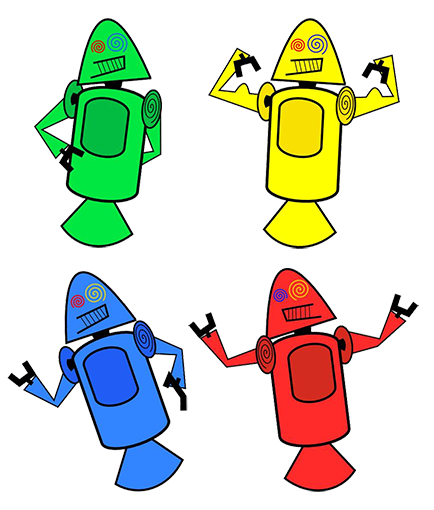
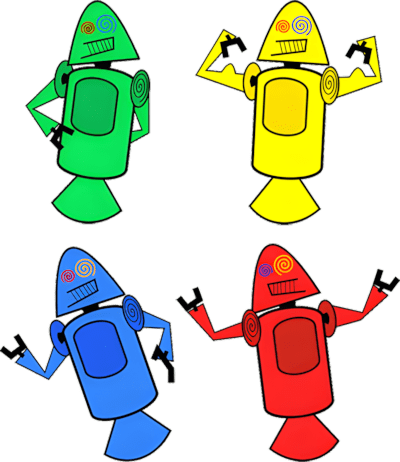
redução do peso das imagens

Changed region(s): [[0.42, 0.0, 1.0, 1.0], [0.0, 0.5152, 0.45, 1.0], [0.06, 0.0, 0.39, 0.4848]]

diff --git a/index.html b/index.html
@@ -43,8 +43,8 @@
             <p>A ideia de ter um mascote foi amadurecendo e a missão foi passada para uma profissional da área. A ilustradora Russa <strong><a class="external-link" href="https://www.irinablok.com/android" target="_blank" rel="noopener noreferrer external">Irina Blok</a></strong>, também funcionária do Google, ficou com a missão de representar o pequeno robô de uma maneira mais agradável.</p>
 
             <picture>
-                <source media="(min-width: 601px)" srcset="images/irina-blok.jpg" type="image/jpeg">
-                <img class="article-image" src="images/irina-blok-pq.jpg" alt="Criadora do Bugdroid: Irina Blok" width="400" height="400">
+                <source media="(min-width: 601px)" srcset="images/irina-blok.webp" type="image/webp">
+                <img class="article-image" src="images/irina-blok-pq.webp" alt="Criadora do Bugdroid: Irina Blok" width="400" height="400">
             </picture>
 
             <p>A ideia principal da Irina era representar tudo graficamente com poucos traços e de forma mais chapada. O desenho também deveria gerar identificação rápida com quem o olha. Surgiu então o <strong class="important">Bugdroid</strong>, o novo mascote do Android.</p>
